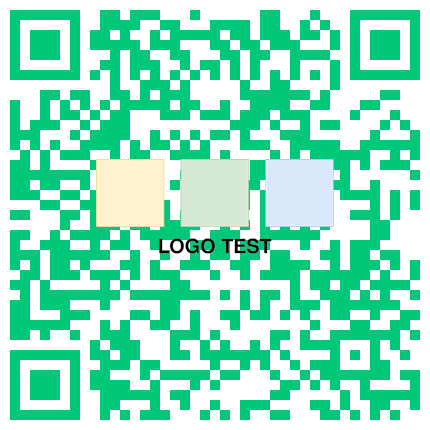
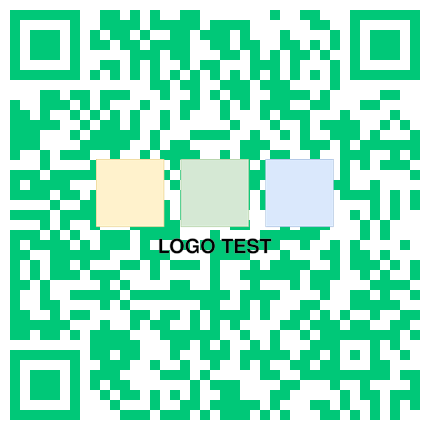
fix demos

diff --git a/qrcode_with_logo.py b/qrcode_with_logo.py
@@ -3,11 +3,11 @@ from PIL import Image
 
 LOGO_FILE = "logo/test_transparent.png"
 LOGO_PERCENT_SIZE = 0.4
-LOGO_BACKGROUND_COLOR = (255,255,255)
+LOGO_BACKGROUND_COLOR = None #(255,255,255)
 LOGO_BACKGROUND_PADDING = 0.10
 
-QRCODE_CONTENT = "https://github.com/PouceHeure/qrcode_with_logo"
-QRCODE_FILE_SAVE = "demo/demo_transparent_bg.png"
+QRCODE_CONTENT = "https://github.com/PouceHeure/qrcode_with_logo/"
+QRCODE_FILE_SAVE = "demo/demo_transparent_without_bg.png"
 QRCODE_QUITE_ZONE = 1
 QRCODE_SCALE = 10
 QRCODE_COLOR_BG = (255,255,255)
